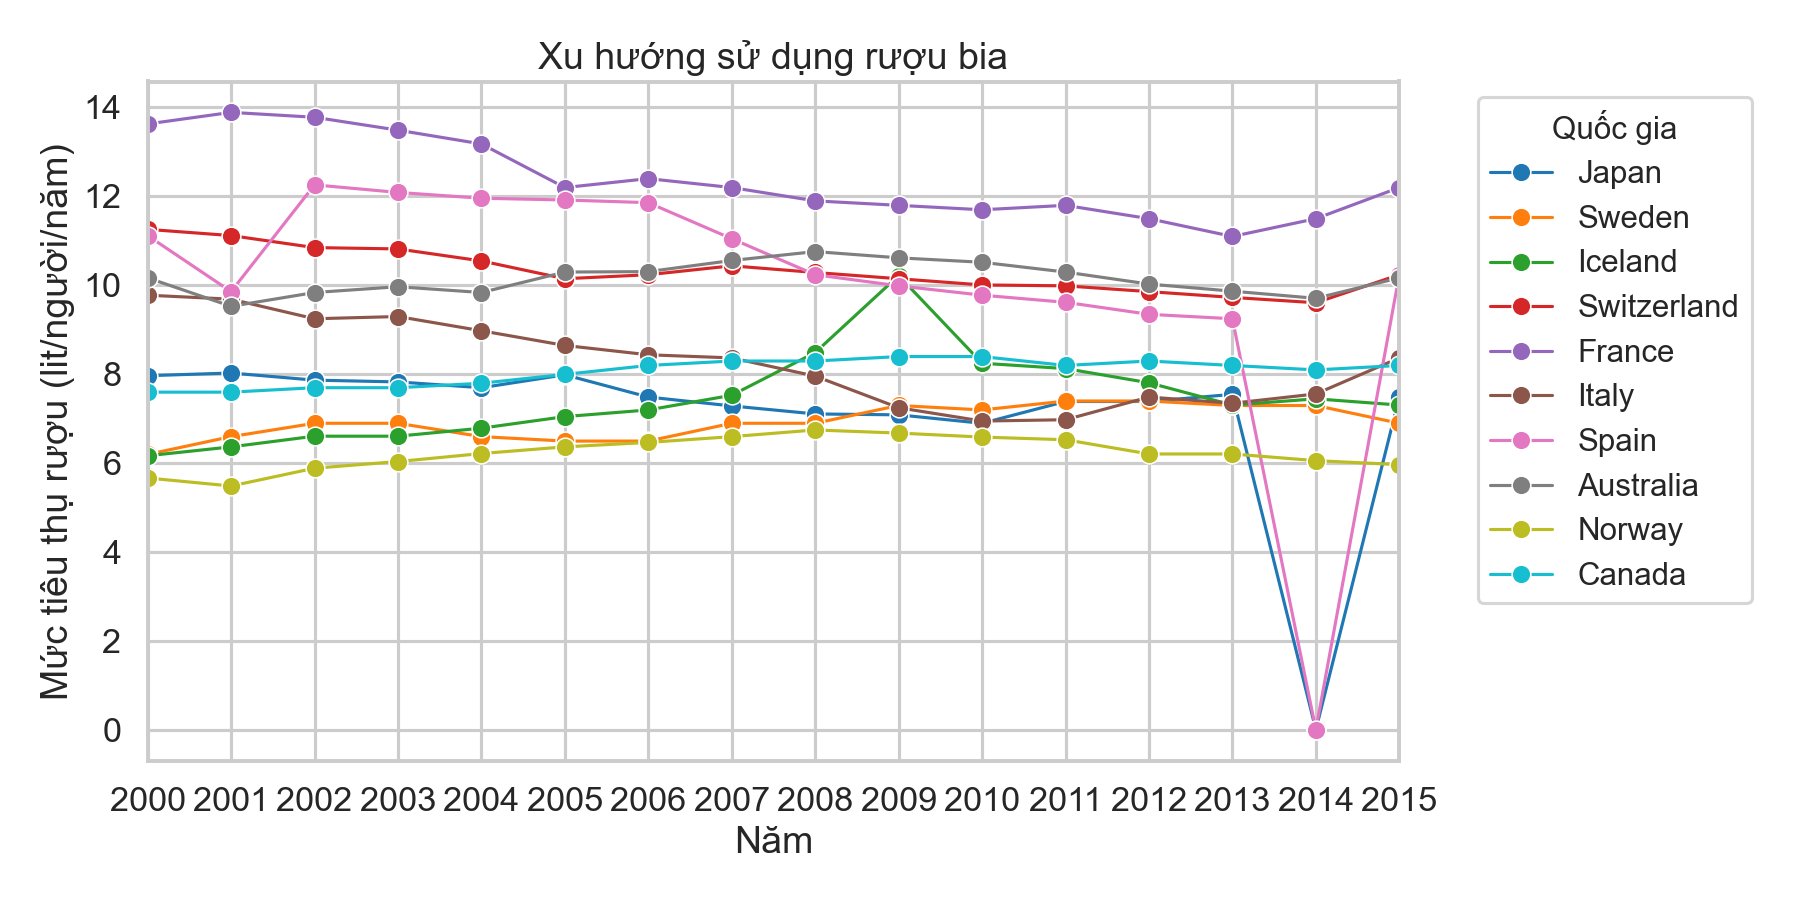
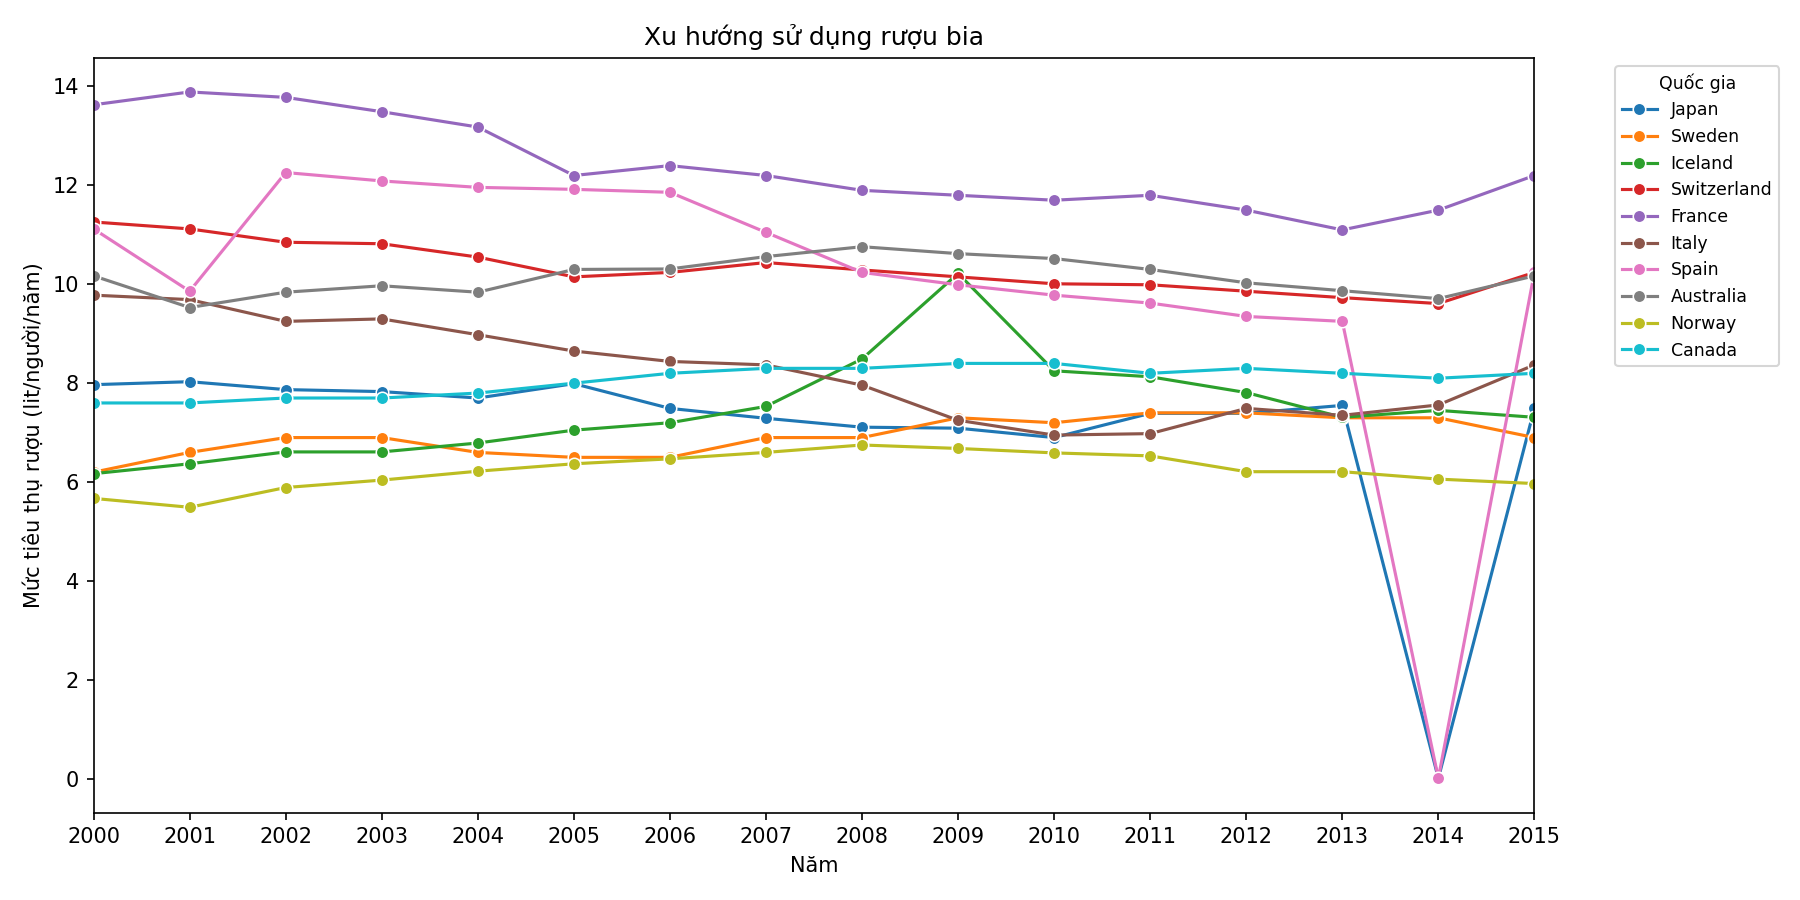
update

Changed region(s): [[0.0, 0.0311, 0.9956, 0.9644], [0.9644, 0.4044, 0.9956, 0.4356]]

diff --git a/main.py b/main.py
@@ -167,6 +167,11 @@ def evaluate_dataset_statistics(df: pd.DataFrame, art: PipelineArtifacts):
     Evaluate basic statistical characteristics of the cleaned dataset using descriptive statistics
     and simple distribution checks. Saves a JSON report and a few diagnostic plots.
 
+    Additionally, save three separate table figures instead of a single combined one:
+    - II_dataset_eval_overview_table.png
+    - II_dataset_eval_missingness_table.png
+    - II_dataset_eval_numeric_summary_table.png
+
     Returns a dictionary of summary statistics.
     """
     stats: Dict[str, Any] = {}
@@ -182,6 +187,7 @@ def evaluate_dataset_statistics(df: pd.DataFrame, art: PipelineArtifacts):
 
     # Numeric summary (mean, std, min, max, quartiles, skew, kurtosis)
     num_df = df.select_dtypes(include=[np.number])
+    desc = None
     if not num_df.empty:
         desc = num_df.describe(percentiles=[0.25, 0.5, 0.75]).T
         desc["skew"] = num_df.skew(numeric_only=True)
@@ -225,7 +231,179 @@ def evaluate_dataset_statistics(df: pd.DataFrame, art: PipelineArtifacts):
             "top_values": vals.value_counts(dropna=True).head(10).to_dict(),
         }
     stats["categorical_summary"] = cat_info
+
     _save_json(stats, art.reports_dir / "II_dataset_eval_stats.json")
+
+    # ---------- Separate table figures (Overview, Missingness, Numeric Summary) ----------
+    try:
+        # 1) Overview table
+        overview_df = pd.DataFrame({
+            "metric": ["n_rows", "n_columns"],
+            "value": [stats.get("n_rows", 0), stats.get("n_columns", 0)],
+        })
+        fig_h = 2 + 0.3 * len(overview_df)
+        plt.figure(figsize=(8, fig_h))
+        ax = plt.gca()
+        ax.axis('off')
+        ax.set_title("Overview", fontweight='bold', pad=10)
+        tbl = ax.table(cellText=overview_df.values, colLabels=overview_df.columns, loc='center')
+        tbl.auto_set_font_size(False)
+        tbl.set_fontsize(9)
+        tbl.scale(1, 1.2)
+        plt.tight_layout()
+        plt.savefig(art.figures_dir / "II_dataset_eval_overview_table.png", dpi=150)
+        plt.close()
+
+        # 2) Missingness table (all)
+        miss_df = pd.DataFrame({
+            "column": list(stats["missing_counts"].keys()),
+            "missing": list(stats["missing_counts"].values()),
+        })
+        if "missing_pct" in stats:
+            miss_df["missing_pct"] = miss_df["column"].map(stats["missing_pct"])  # type: ignore
+        miss_df = miss_df.sort_values("missing", ascending=False)
+        miss_df["missing_pct"] = miss_df["missing_pct"].map(lambda x: round(float(x), 2) if pd.notna(x) else 0.0)
+        fig_h = 2 + 0.18 * max(3, len(miss_df))
+        plt.figure(figsize=(12, fig_h))
+        ax = plt.gca()
+        ax.axis('off')
+        ax.set_title("Missingness (All)", fontweight='bold', pad=10)
+        tbl = ax.table(cellText=miss_df.values, colLabels=miss_df.columns, loc='center')
+        tbl.auto_set_font_size(False)
+        tbl.set_fontsize(7)
+        tbl.scale(1, 1.1)
+        plt.tight_layout()
+        plt.savefig(art.figures_dir / "II_dataset_eval_missingness_table.png", dpi=150)
+        plt.close()
+
+        # 3) Numeric summary table (all)
+        if desc is not None and not desc.empty:
+            sel_cols = ["mean", "std", "min", "25%", "50%", "75%", "max", "skew", "kurtosis"]
+            present_cols = [c for c in sel_cols if c in desc.columns]
+            num_table = desc[present_cols].round(3).copy()
+            try:
+                order = num_table["mean"].abs().sort_values(ascending=False).index
+                num_table = num_table.loc[order]
+            except Exception:
+                pass
+            num_table.insert(0, "feature", num_table.index)
+            num_table = num_table.reset_index(drop=True)
+            fig_h = 2 + 0.18 * max(3, len(num_table))
+            plt.figure(figsize=(12, fig_h))
+            ax = plt.gca()
+            ax.axis('off')
+            ax.set_title("Numeric Summary (All)", fontweight='bold', pad=10)
+            tbl = ax.table(cellText=num_table.values, colLabels=num_table.columns, loc='center')
+            tbl.auto_set_font_size(False)
+            tbl.set_fontsize(7)
+            tbl.scale(1, 1.1)
+            plt.tight_layout()
+            plt.savefig(art.figures_dir / "II_dataset_eval_numeric_summary_table.png", dpi=150)
+            plt.close()
+
+    except Exception:
+        # Fail-safe: don't block pipeline if table rendering fails
+        pass
+
+    return stats
+
+
+def evaluate_dataset_visualization(df: pd.DataFrame, art: PipelineArtifacts):
+    # ---- Lấy top 10 quốc gia theo tuổi thọ trung bình ----
+    # đảm bảo cột life_expectancy tồn tại
+    if "life_expectancy" not in df.columns:
+        raise ValueError("Không tìm thấy cột 'life_expectancy' trong file. Kiểm tra lại tên cột.")
+
+    top10_countries = (
+        df.groupby("country")["life_expectancy"]
+        .mean()
+        .nlargest(10)
+        .index
+        .tolist()
+    )
+
+    df_top10 = df[df["country"].isin(top10_countries)].copy()
+
+    # Đảm bảo cột year là numeric để vẽ
+    df_top10["year"] = pd.to_numeric(df_top10["year"], errors="coerce")
+
+    # Helper: tìm cột hiện có trong dataframe từ 1 danh sách tên khả dĩ
+    def find_col(df, candidates):
+        for c in candidates:
+            if c in df.columns:
+                return c
+        # fallback: tìm theo chứa substring
+        for cand in candidates:
+            for col in df.columns:
+                if cand in col:
+                    return col
+        return None
+
+    # Danh sách các biến (mỗi mục là list tên khả dĩ) + nhãn tiếng Việt cho trục y và tiêu đề
+    plots = [
+        (["life_expectancy"], "Tuổi thọ trung bình", "Xu hướng tuổi thọ trung bình (Top 10 quốc gia)"),
+        (["adult_mortality"], "Tử vong người lớn (15-60 tuổi)", "Xu hướng tử vong ở người lớn (15–60 tuổi)"),
+        (["alcohol"], "Mức tiêu thụ rượu (lit/người/năm)", "Xu hướng sử dụng rượu bia"),
+        (["percentage_expenditure"], "Tỷ lệ GDP chi cho y tế (cột percentage_expenditure)",
+         "Xu hướng tỷ lệ GDP chi cho y tế"),
+        (["hepatitis_b"], "Tỷ lệ tiêm Viêm gan B (%)", "Xu hướng tiêm phòng Viêm gan B"),
+        (["bmi"], "BMI trung bình", "Xu hướng chỉ số BMI"),
+        (["under_five_deaths", "under-five_deaths", "under_five_death"], "Tử vong trẻ dưới 5 tuổi",
+         "Xu hướng tỷ lệ trẻ tử vong dưới 5 tuổi"),
+        (["total_expenditure"], "Tỷ lệ chi tiêu y tế trên tổng chi tiêu chính phủ (%) (total_expenditure)",
+         "Xu hướng tỷ lệ chi tiêu y tế trên tổng chi tiêu chính phủ"),
+        (["gdp"], "GDP bình quân đầu người", "Xu hướng GDP"),
+        (["thinness_1_19_years", "thinness_1_19", "thinness_10_19_years"], "Tỷ lệ suy dinh dưỡng trẻ 10-19 (%)",
+         "Xu hướng tỷ lệ suy dinh dưỡng trẻ em & thanh thiếu niên 10–19"),
+        (["income_composition_of_resources"], "Chỉ số phát triển con người (0-1) - proxy",
+         "Xu hướng Chỉ số phát triển con người (proxy)"),
+        (["schooling"], "Bình quân số năm đi học", "Xu hướng Bình quân tuổi đến trường (số năm)")
+    ]
+
+    # Cài đặt style seaborn
+    # sns.set(style="whitegrid", context="talk", palette="tab10")
+
+    # Vẽ tuần tự từng biểu đồ
+    for candidates, ylabel, title in plots:
+        col = find_col(df_top10, candidates)
+        if col is None:
+            print(f"[SKIP] Không tìm thấy cột phù hợp cho: {title} (các ứng viên: {candidates})")
+            continue
+
+        # chuyển thành numeric (nếu có chuỗi)
+        df_top10[col] = pd.to_numeric(df_top10[col], errors="coerce")
+
+        plt.figure(figsize=(12, 6))
+        sns.lineplot(
+            data=df_top10,
+            x="year",
+            y=col,
+            hue="country",
+            hue_order=top10_countries,
+            marker="o",
+            estimator=None,
+            lw=1.5
+        )
+        plt.title(f"{title}")
+        plt.ylabel(ylabel)
+        plt.xlabel("Năm")
+        # Giới hạn trục X để hiển thị đủ 2000–2015
+        plt.xlim(2000, 2015)
+        plt.xticks(range(2000, 2016))  # bắt buộc hiện đủ nhãn năm
+        # ---- Legend chỉnh nhỏ + đặt ngoài hình ----
+        plt.legend(
+            title="Quốc gia",
+            bbox_to_anchor=(1.05, 1),  # đặt legend ra ngoài bên phải
+            loc="upper left",  # căn góc trên bên trái của legend vào điểm (1.05,1)
+            fontsize="small",  # cỡ chữ nhỏ hơn
+            title_fontsize="small"  # cỡ chữ tiêu đề nhỏ
+        )
+        plt.tight_layout()
+
+        # Lưu file hình
+        safe_col_name = col.replace("/", "_").replace(" ", "_")
+        plt.savefig(art.reports_dir / f"II_trend_top10_{safe_col_name}.png", dpi=150)
+        plt.close()
 
 
 # -------------------- Analysis sections (III.1 - III.4) --------------------
@@ -568,6 +746,8 @@ if __name__ == "__main__":
 
     print("Evaluating dataset statistics after cleaning")
     evaluate_dataset_statistics(df, art)
+
+    evaluate_dataset_visualization(df, art)
 
     print("III.1 - GDP vs Life Expectancy correlation analysis")
     corr_by_country = analyze_gdp_life_corr(df, art)
